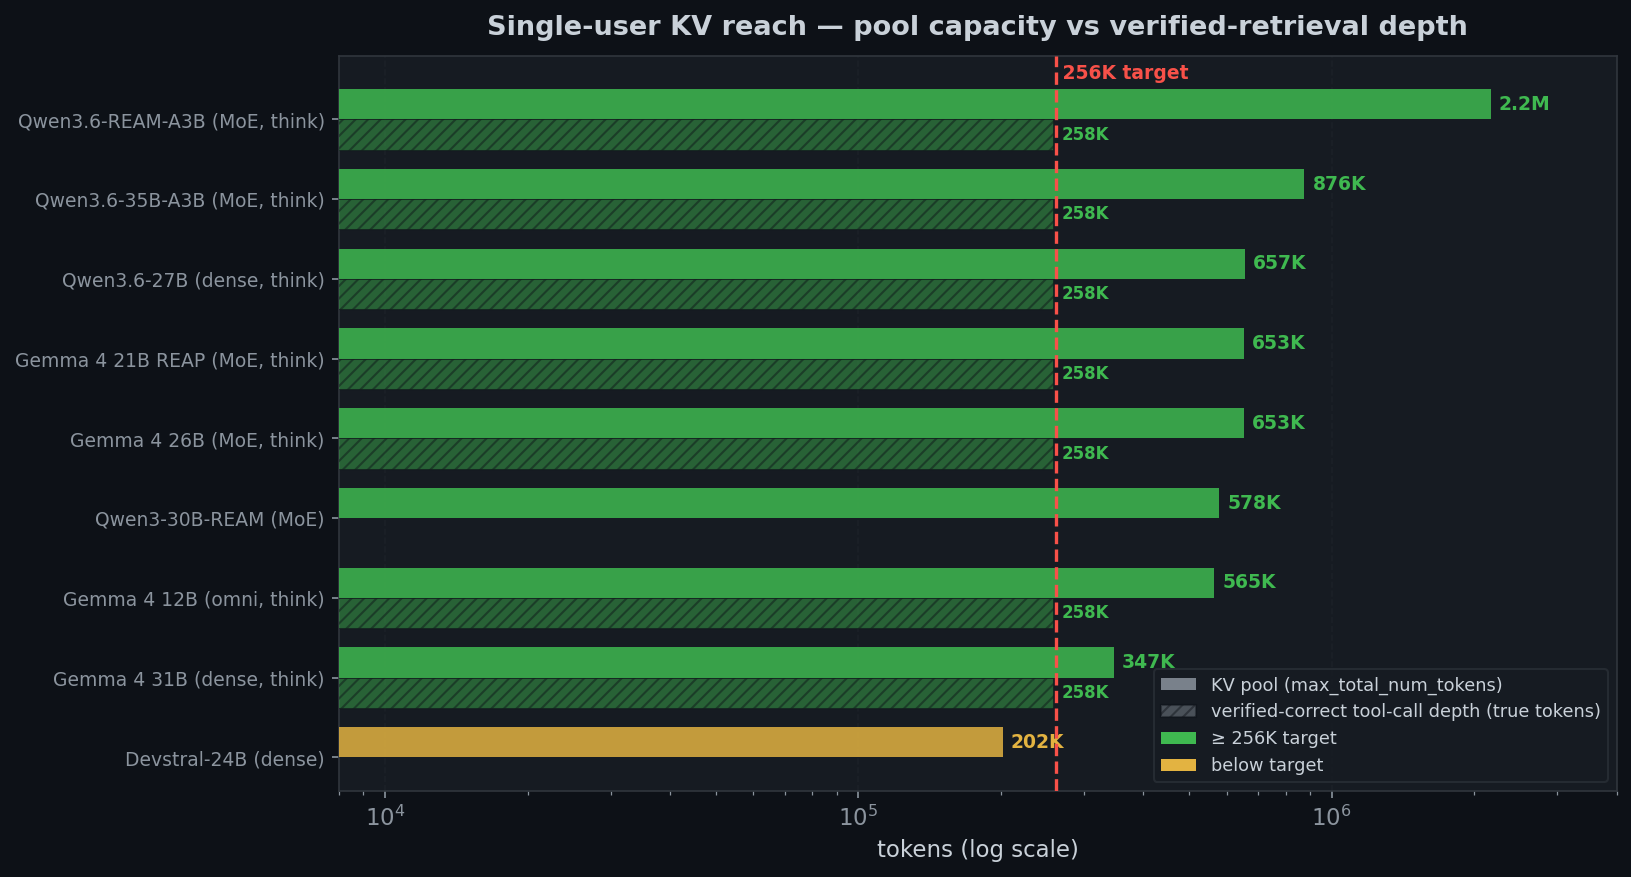
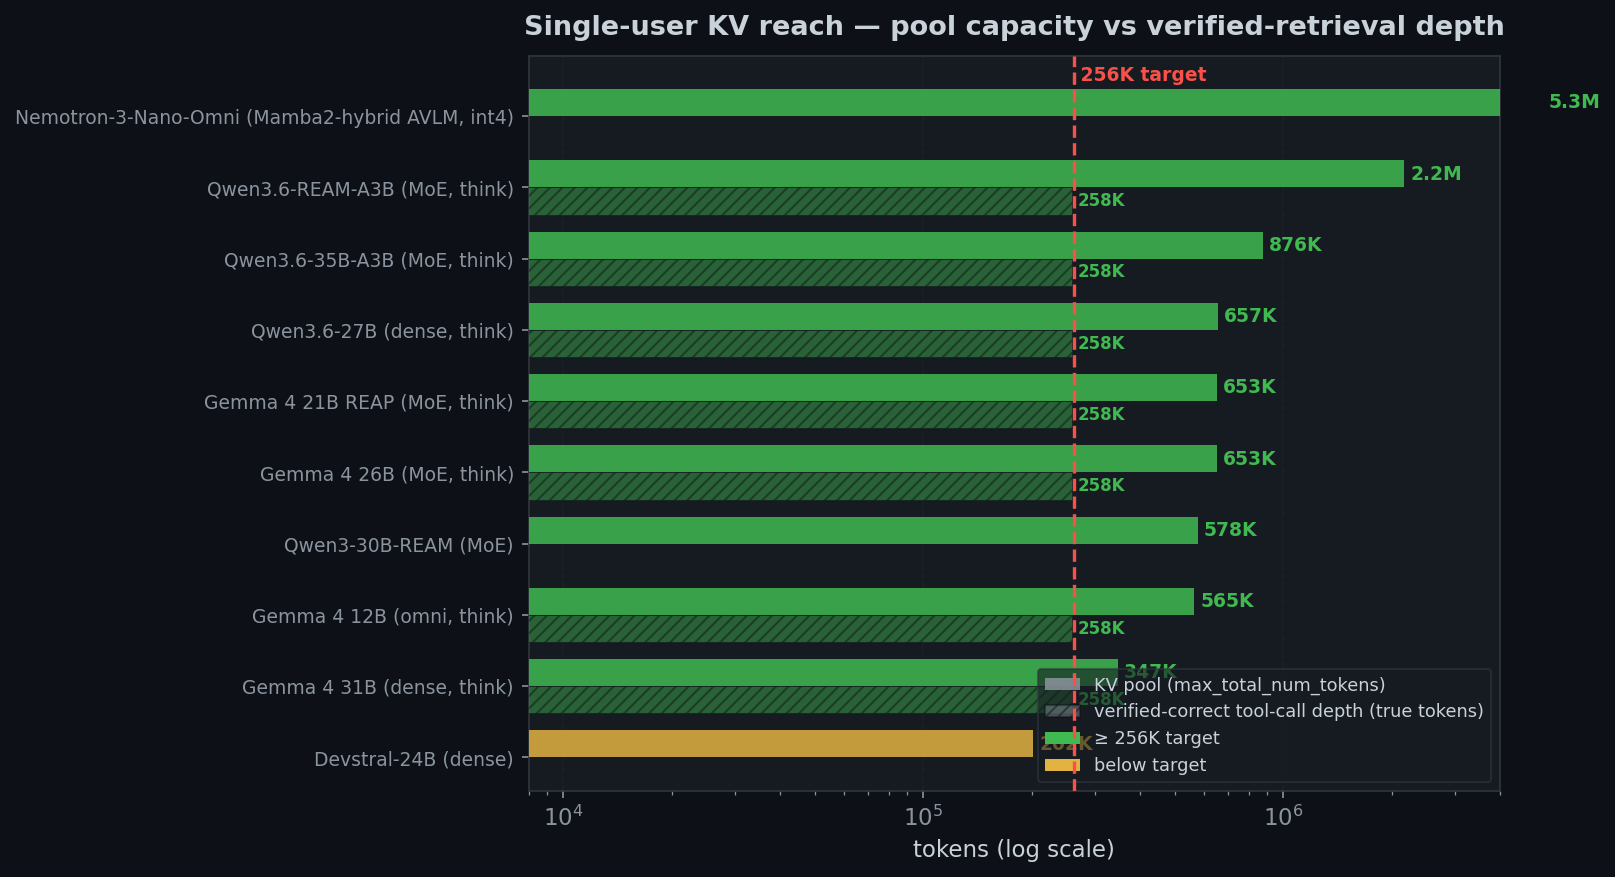
charts/readme: add Nemotron-3-Nano-Omni to the decode charts + note bake-off exclusion
Nemotron was in the Performance prose, Model Support table, and MoE matrix but
MISSING from the decode/context charts (not in generate_charts.py's MODELS
registry, no benchmarks/<slug>/results.json). The decode-curve data already
existed in the exact results.json schema — wired it in:
- benchmarks/nemotron3-omni/results.json (from nemotron-256k/decode-curve-2026-06-16)
- registered slug nemotron3-omni in generate_charts.py (Mamba2-hybrid AVLM, teal)
- regenerated all_models_{decode,context,kv_capacity}.png — nemotron now plotted
  (102.7 short -> 97.8 @user, flat; 5.25M-tok pool)
- bake-off section: documented WHY nemotron is excluded from the SWE-bench queue
  (omni/reasoning ship, not a coder) instead of leaving it a silent omission

Still-open nemotron gaps (need the model SERVED -> GPU -> blocked by the running
bake-off, Rule 1/2): Quality Evals (MMLU/HE/LAB/Needle), 256K tool-use probe,
256K reasoning probe, VRAM context-limits table. Queued for after the bake-off.

diff --git a/scripts/bench/generate_charts.py b/scripts/bench/generate_charts.py
@@ -40,6 +40,7 @@ MODELS = {
     "qwen3.6-ream":        {"label": "Qwen3.6-REAM-A3B AWQ (MoE, think)", "color": "#79c0ff"},
     "qwen3.6-27b":         {"label": "Qwen3.6-27B AWQ (dense, think)",    "color": "#1f6feb"},
     "qwen3-30b-ream":      {"label": "Qwen3-30B-REAM AWQ (MoE)",          "color": "#3fb950"},
+    "nemotron3-omni":      {"label": "Nemotron-3-Nano-Omni AWQ (Mamba2-hybrid AVLM, int4)", "color": "#39c5cf"},
     "devstral-24b-awq":    {"label": "Devstral-24B AWQ (dense)",          "color": "#56d364"},
     "gemma4-31b":          {"label": "Gemma 4 31B AWQ (dense, think)",    "color": "#d2a8ff"},
     "gemma4-26b-awq":      {"label": "Gemma 4 26B AWQ (MoE, think)",      "color": "#bc8cff"},

diff --git a/README.md b/README.md
@@ -69,6 +69,8 @@ Items 2–3 are prerequisites for the MoE backlog. Detailed plan: [`scripts/quan
 
 ## Coding-eval bake-off (SWE-bench Lite, v2 Docker harness, 256K, single-user)
 
+Scope: the 9 coding presets (the queue in `evals/swebench/run_all_cycles.sh`). **`nemotron3-omni` is intentionally excluded** — it's the AVLM omni/reasoning ship (audio+video+vision+thinking), not a coding-tuned model, so a SWE-bench cell would measure off-mission capability; its decode/256K receipts live in [Performance](#performance--single-user-decode-at-256k) + [Model Support](#model-support). (Add it to `QUEUE=` only if a coding datapoint is specifically wanted — ~+1 day.)
+
 Top tier: `qwen36-dense` (Qwen3.6-27B dense, thinking) **leads at 62.0%** on opencode, ahead of the A3B-MoE thinkers `qwen36` and `qwen36-ream` (59.0%). `qwen36` is a strong, consistent three-scaffold performer — **opencode 59.0% / little-coder 59.0% / claw 51.7%** — with the `developer`-role chat-template fix (†) applied. REAM ties native on opencode (both 59.0%) but **trails ~9 pp on little-coder** (`qwen36-ream` 150/300 = 50.0% vs `qwen36` 59.0%, full-300 both, 64 empty patches in the REAM cell) — the merge is scaffold-sensitive on the thinking ships, so "REAM ties native" holds on opencode/claw but not uniformly. The fleet is re-running every little-coder cell with that fix (cycle 3 of 9).
 
 | Preset | opencode | claw-code | little-coder |